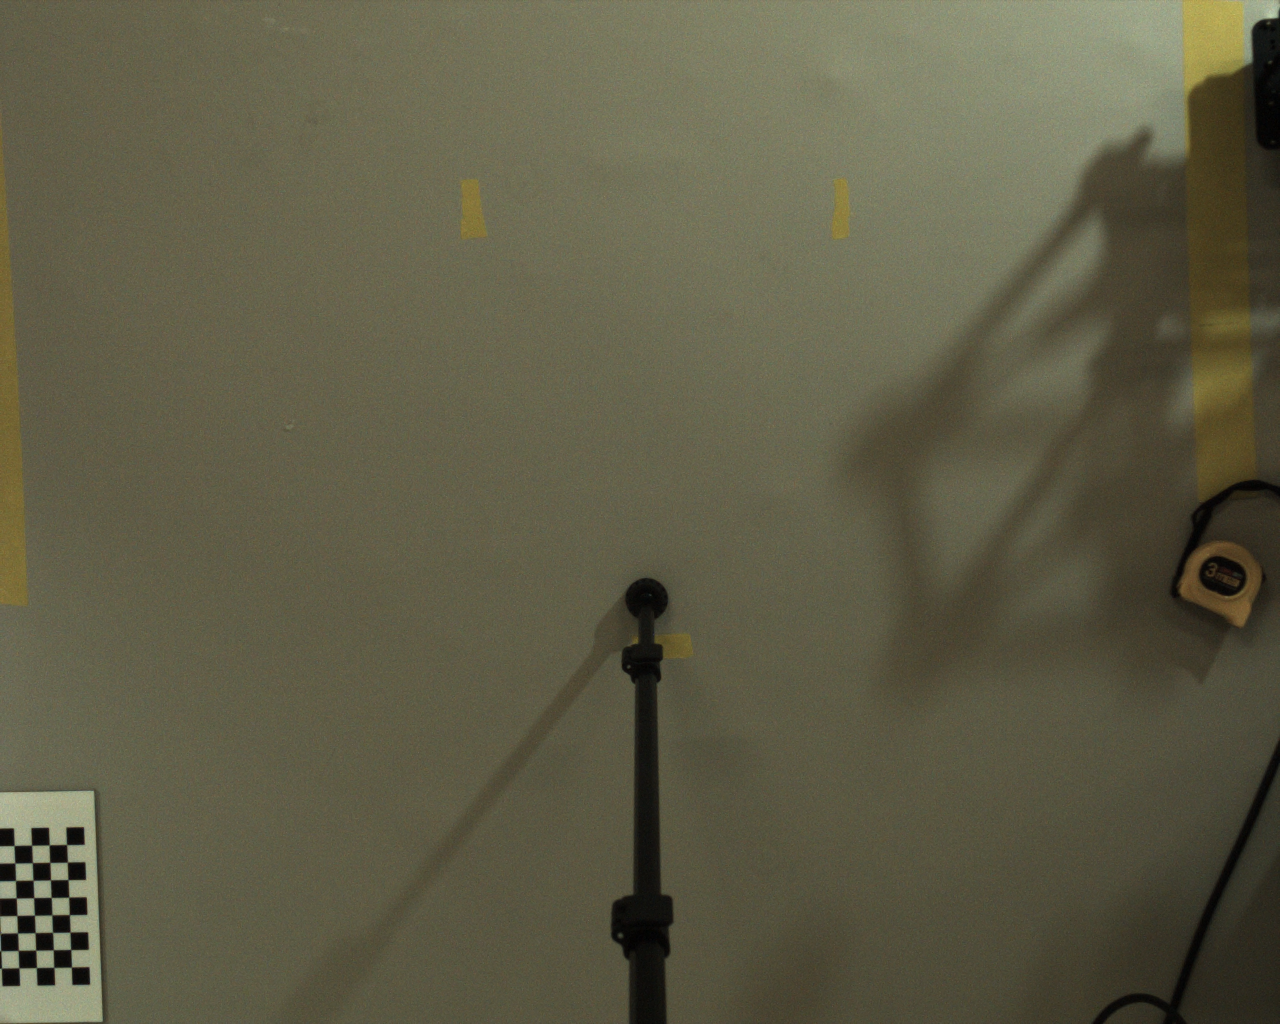
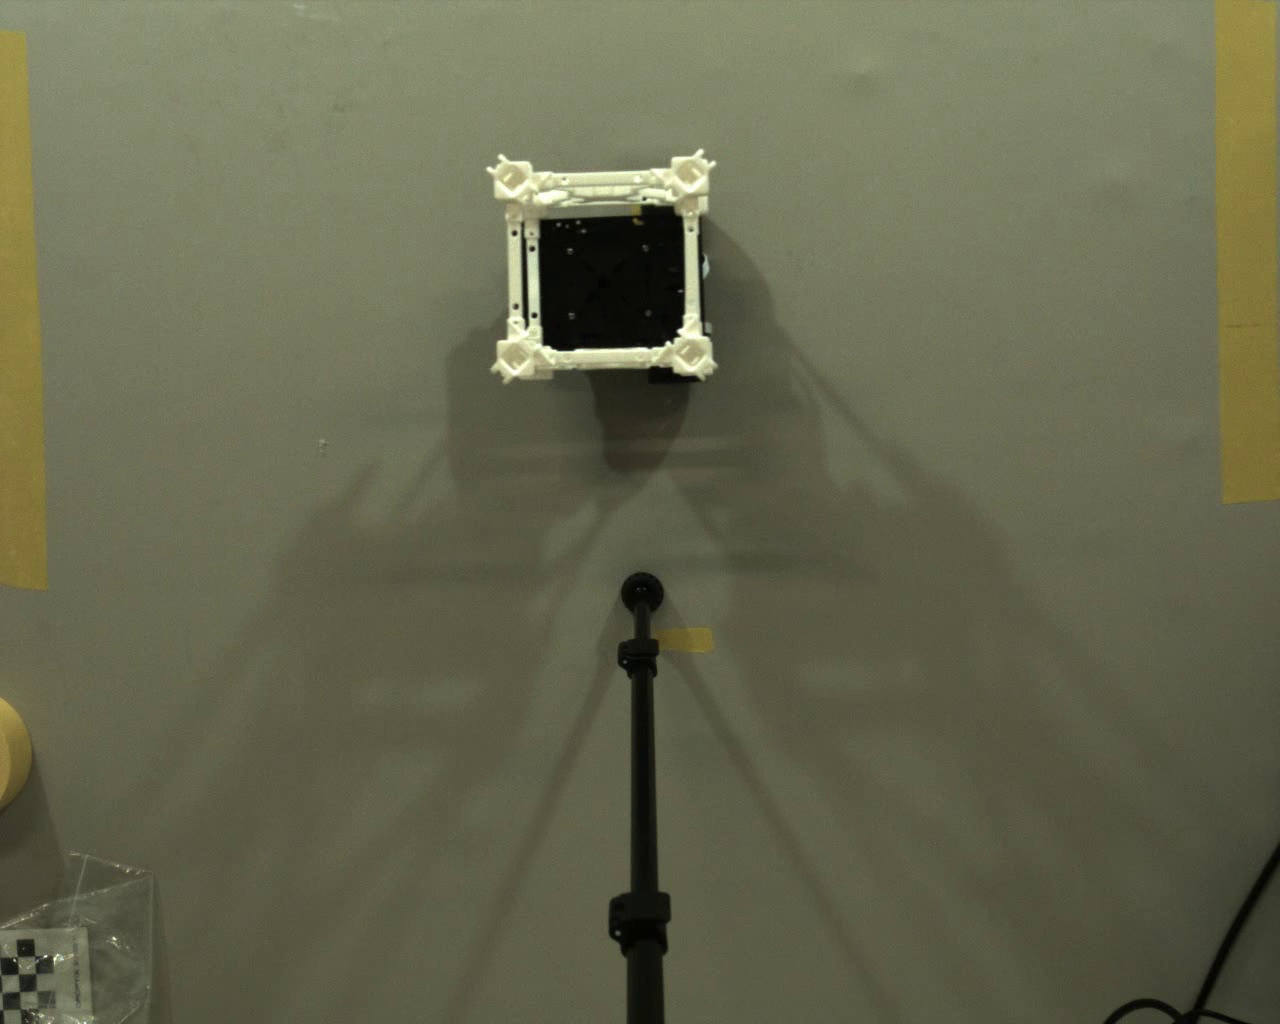
结课汇报 PPT：13 页（平台/标定/算法/改进/方案/视频占位/图表/目标/总结），沿用周汇报模板

diff --git a/第二学期/doc/build_final_deck.py b/第二学期/doc/build_final_deck.py
@@ -1,0 +1,368 @@
+#!/usr/bin/env python3
+# -*- coding: utf-8 -*-
+"""生成《第二学期结课汇报》PPT
+
+沿用上一次周汇报的模板（院徽/院训/底栏），以结果展示为主：
+    一、实验平台（4 张平台图）
+    二、相机标定（标定成果图 + 关键数字）
+    三、算法移植（主框架）
+    四、算法改进（核心改进点 + 标注帧）
+    五、实验方案（一页一个表格）
+    六、七、标注视频占位（2 页）
+    八、结果图表（汇总图 + 6 张四宫格，2 张/页）
+    九、目标达成
+    十、总结
+"""
+
+from __future__ import annotations
+
+import copy
+import os
+from pathlib import Path
+
+from pptx.enum.shapes import MSO_SHAPE
+from pptx.enum.text import MSO_ANCHOR, PP_ALIGN
+from pptx.util import Cm, Pt
+
+import build_deck as bd
+from build_deck import (BLUE, DARK, GREEN, ORANGE, RED, GRAY, BODY, CARD_FILL,
+                        CARD_LINE, accent_card, arrow, banner, metric_strip,
+                        picture, set_font, stat_card, table, textbox, _rect)
+
+WEEKLY = bd.BASE / "视觉算法组_周汇报_10.30.pptx"
+OUT = bd.BASE / "视觉算法组_结课汇报.pptx"
+
+ARCH = bd.ROOT / "第二学期" / "验收成果_2026-10-30"
+PLAT = ARCH / "00_实验平台"
+CAL = ARCH / "01_标定"
+FIG = bd.ROOT / "第二学期" / "out" / "acceptance" / "figures"
+
+
+class FinalDeck(bd.Builder):
+    def __init__(self):
+        bd.TEMPLATE = WEEKLY
+        super().__init__()
+
+    # ---------- 通用 ----------
+    def build(self):
+        sldIdLst = self.prs.slides._sldIdLst
+        for sldId in list(sldIdLst)[:self.n_orig]:
+            self.prs.part.drop_rel(sldId.rId)
+            sldIdLst.remove(sldId)
+        self.platform()
+        self.calibration()
+        self.algorithm()
+        self.improve()
+        self.scheme()
+        self.video_one()
+        self.video_two()
+        self.summary_fig()
+        self.grids_l1()
+        self.grids_l2()
+        self.grids_l3()
+        self.goal()
+        self.conclusion()
+        self.prs.save(str(OUT))
+        print(f"saved {OUT}")
+
+    def video_placeholder(self, s, img, x, y, w, h, caption, detail):
+        picture(s, img, x, y, w, h)
+        cx, cy = x + w / 2, y + h / 2
+        circ = s.shapes.add_shape(MSO_SHAPE.OVAL, Cm(cx - 1.5), Cm(cy - 1.5),
+                                  Cm(3.0), Cm(3.0))
+        circ.fill.solid()
+        circ.fill.fore_color.rgb = bd.RGBColor.from_string("FFFFFF")
+        circ.line.color.rgb = bd.RGBColor.from_string("D6E4F0")
+        circ.line.width = Pt(1.5)
+        tri = s.shapes.add_shape(MSO_SHAPE.ISOSCELES_TRIANGLE,
+                                 Cm(cx - 0.55), Cm(cy - 0.75), Cm(1.4), Cm(1.5))
+        tri.rotation = 90
+        tri.fill.solid()
+        tri.fill.fore_color.rgb = bd.RGBColor.from_string(BLUE)
+        tri.line.fill.background()
+        textbox(s, x, y + h + 0.1, w, 0.7, caption, size=11, bold=True,
+                color=DARK, align=PP_ALIGN.CENTER)
+        textbox(s, x, y + h + 0.75, w, 0.6, detail, size=9.5, color=GRAY,
+                align=PP_ALIGN.CENTER)
+
+    # ---------- 一、实验平台 ----------
+    def platform(self):
+        s = self.new_slide("一、实验平台")
+        textbox(s, 0.9, 2.0, 9.4, 2.7,
+                "面向“在轨服务机器人地面试验”任务：\n"
+                "俯视相机 + 双 100 W 工作灯 +\n"
+                "桁架小车 + 白桌，完成平台搭建。", size=13, color=BODY)
+        data = [
+            ["项目", "参数"],
+            ["相机", "MV-CU013-A0UC"],
+            ["分辨率", "1280 × 1024"],
+            ["镜头", "MVL-HF0828M-6MPE"],
+            ["机位", "镜头 → 桌面 144 cm"],
+            ["曝光/光圈/增益", "10 ms / F2.8 / 6 dB"],
+            ["桌面", "白桌（未铺黑布）"],
+        ]
+        table(s, 0.9, 5.0, 9.4, 8.2, data, col_w=[3.7, 5.7], fsize=11.5,
+              first_col_bold=True)
+        textbox(s, 0.9, 13.6, 9.4, 1.2,
+                "注：图片取自验收成果 00_实验平台，共 4 张。", size=9.5, color=GRAY)
+
+        picture(s, PLAT / "平台全景_相机与桌面.jpg", 10.6, 2.0, 10.8, 6.6)
+        textbox(s, 10.6, 8.65, 10.8, 0.6, "平台全景：相机、桌面与左灯", size=9.5,
+                color=GRAY, align=PP_ALIGN.CENTER)
+        picture(s, PLAT / "平台全景_灯位与桁架车.jpg", 21.8, 2.0, 10.9, 6.6)
+        textbox(s, 21.8, 8.65, 10.9, 0.6, "平台全景：灯位与桁架小车", size=9.5,
+                color=GRAY, align=PP_ALIGN.CENTER)
+        picture(s, PLAT / "平台全景_三灯布置.jpg", 10.6, 9.8, 10.8, 6.6)
+        textbox(s, 10.6, 16.45, 10.8, 0.6, "三灯布置与采集端", size=9.5,
+                color=GRAY, align=PP_ALIGN.CENTER)
+        picture(s, PLAT / "相机视角_俯拍.png", 21.8, 9.8, 10.9, 6.6)
+        textbox(s, 21.8, 16.45, 10.9, 0.6, "相机视角：俯拍画面", size=9.5,
+                color=GRAY, align=PP_ALIGN.CENTER)
+        self.notes(s, "实验平台：按任务情景搭好相机、双灯、桁架小车与白桌；四张图分别展示全景、灯位、三灯布置和相机实际画面。")
+
+    # ---------- 二、相机标定 ----------
+    def calibration(self):
+        s = self.new_slide("二、相机标定")
+        picture(s, CAL / "5cm网格_全视野.png", 0.9, 2.0, 17.6, 14.2)
+        textbox(s, 0.9, 16.35, 17.6, 0.7,
+                "标定成果：全视野 5 cm 网格 + 88 个内角点 + 标定板轮廓",
+                size=10.5, color=GRAY, align=PP_ALIGN.CENTER)
+        stat_card(s, 19.6, 2.1, 6.4, 3.1, "0.044", "px", "重投影 RMS")
+        stat_card(s, 26.7, 2.1, 6.4, 3.1, "14.73", "px/cm", "像素尺度（X）")
+        stat_card(s, 19.6, 5.5, 6.4, 3.1, "88/88", "", "内角点全部检出")
+        stat_card(s, 26.7, 5.5, 6.4, 3.1, "114.8", "cm", "标定面 WD")
+        textbox(s, 19.6, 9.1, 13.5, 3.6,
+                "• 标定板 Q12-200-15 放在桁架顶面\n"
+                "• 视野 86.9 × 69.3 cm，测量区 76.9 × 59.3 cm\n"
+                "• 单应 H：像素 → 厘米，用于测速与轨迹",
+                size=11.5, color=BODY)
+        banner(s, 19.6, 13.1, 13.5, 2.6,
+               "标定质量良好：88 个角点全部检出，\nRMS 0.044 px（≈0.03 mm）",
+               "E8F5E9", GREEN, GREEN, size=12.5)
+        self.notes(s, "相机标定：标定板在桁架顶面，88/88 角点、RMS 0.044 px、14.73 px/cm；单应 H 打通像素到厘米。")
+
+    # ---------- 三、算法移植 ----------
+    def algorithm(self):
+        s = self.new_slide("三、算法移植")
+        steps = [
+            ("相机取流", "时间戳 + FrameID"),
+            ("灰度 + 背景建模", "MOG2"),
+            ("形态学开 / 闭", "5×5 椭圆核"),
+            ("最大轮廓", "面积 ≥ 阈值"),
+            ("图像矩质心", "m10 / m00"),
+            ("单应 H", "cm → px"),
+            ("速度", "差分 + αβ"),
+        ]
+        x = 0.9
+        for i, (st, sub) in enumerate(steps):
+            shp = s.shapes.add_shape(MSO_SHAPE.ROUNDED_RECTANGLE, Cm(x), Cm(2.2),
+                                     Cm(4.1), Cm(2.1))
+            shp.adjustments[0] = 0.12
+            shp.fill.solid()
+            shp.fill.fore_color.rgb = bd.RGBColor.from_string(bd.STAT_FILL)
+            shp.line.color.rgb = bd.RGBColor.from_string(CARD_LINE)
+            tf = shp.text_frame
+            tf.word_wrap = True
+            tf.vertical_anchor = MSO_ANCHOR.MIDDLE
+            p = tf.paragraphs[0]
+            p.alignment = PP_ALIGN.CENTER
+            r = p.add_run(); r.text = st
+            set_font(r, 11.5, True, DARK)
+            p2 = tf.add_paragraph()
+            p2.alignment = PP_ALIGN.CENTER
+            r = p2.add_run(); r.text = sub
+            set_font(r, 9.5, False, GRAY)
+            if i < len(steps) - 1:
+                arrow(s, x + 4.15, 3.0, 0.35, 0.5)
+            x += 4.6
+        banner(s, 0.9, 4.75, 31.9, 1.5,
+               "主框架：运动前景 + 亮度门限 → 最大轮廓 → 质心 → 单应 → αβ 平滑测速",
+               "EAF3FB", BLUE, DARK, size=12.5)
+        picture(s, FIG / "pick_L1_21_1_440.jpg", 0.9, 6.5, 15.4, 10.0)
+        textbox(s, 0.9, 16.6, 15.4, 0.7,
+                "运行画面：绿色轮廓、红色质心、橙色速度矢量与 HUD",
+                size=10, color=GRAY, align=PP_ALIGN.CENTER)
+        accent_card(s, 16.9, 6.5, 15.9, 3.0, "① 前景提取",
+                    "MOG2 背景差分得到运动像素，再用亮度门限筛出目标", bsize=11.5)
+        accent_card(s, 16.9, 9.8, 15.9, 3.0, "② 目标定位",
+                    "取最大轮廓，用图像矩 m10/m00 求质心（亚像素）", bsize=11.5)
+        accent_card(s, 16.9, 13.1, 15.9, 3.0, "③ 速度计算",
+                    "单应 H 把质心映射到厘米坐标，αβ 滤波后差分求速度", bsize=11.5)
+        textbox(s, 16.9, 16.35, 15.9, 0.8,
+                "移植后暴露的问题：单侧强光的长阴影被并成前景。",
+                size=10.5, color=RED)
+        self.notes(s, "算法移植：7 步主框架；直接搬过来后遇到强光长阴影问题，引出下一页的改进。")
+
+    # ---------- 四、算法改进 ----------
+    def improve(self):
+        s = self.new_slide("四、算法改进")
+        items = [
+            ("① 曝光锁定", "快门定在 10 ms，正好一个 100 Hz 周期，画面不闪"),
+            ("② 亮度门限", "影子比目标暗，只保留“又亮又在动”的像素"),
+            ("③ 自适应阈值", "门槛跟着画面亮度走，换光照不用改参数"),
+            ("④ αβ + 稳态窗", "速度平滑、自动挑出稳定段，失败率可统计"),
+        ]
+        y = 2.3
+        for t, b in items:
+            accent_card(s, 0.9, y, 13.2, 2.8, t, b, bsize=11.5)
+            y += 3.15
+        banner(s, 0.9, 15.2, 13.2, 2.2,
+               "失败率 19.6% → 0%，速度误差 −10% → ±1.3%",
+               "E8F5E9", GREEN, GREEN, size=12.5)
+        picture(s, FIG / "pick_L3_31_1_440.jpg", 14.8, 2.3, 18.0, 12.6)
+        textbox(s, 14.8, 15.05, 18.0, 0.7,
+                "改进后的标注画面：轮廓、质心、速度矢量、HUD 与稳态标记",
+                size=10, color=GRAY, align=PP_ALIGN.CENTER)
+        textbox(s, 14.8, 15.75, 18.0, 1.6,
+                "核心改进：曝光挡频闪 + 亮度筛影子 + 自适应阈值 + 平滑与稳态窗，\n"
+                "使强光下的检出和测速稳定下来。", size=11, color=BODY)
+        self.notes(s, "算法改进：四点——曝光锁定、亮度门限、自适应阈值、αβ+稳态窗；失败率从 19.6% 降到 0%。")
+
+    # ---------- 五、实验方案（表格） ----------
+    def scheme(self):
+        s = self.new_slide("五、实验方案")
+        data = [
+            ["等级", "照度区间", "目标速度", "重复次数", "录像规格", "指标 1", "指标 2"],
+            ["L1", "333–368 lx", "21 cm/s", "1 次", "15 s @ 60 fps", "≤20%", "≤15%"],
+            ["L1", "333–368 lx", "31 cm/s", "1 次", "15 s @ 60 fps", "≤20%", "≤15%"],
+            ["L2", "428–473 lx", "21 cm/s", "1 次", "15 s @ 60 fps", "≤20%", "≤15%"],
+            ["L2", "428–473 lx", "31 cm/s", "1 次", "15 s @ 60 fps", "≤20%", "≤15%"],
+            ["L3", "523–578 lx", "21 cm/s", "1 次", "15 s @ 60 fps", "≤20%", "≤15%"],
+            ["L3", "523–578 lx", "31 cm/s", "1 次", "15 s @ 60 fps", "≤20%", "≤15%"],
+        ]
+        table(s, 0.9, 2.3, 31.9, 9.6, data,
+              col_w=[2.8, 6.0, 4.2, 3.6, 6.6, 4.3, 4.4], fsize=12,
+              first_col_bold=True)
+        textbox(s, 0.9, 12.3, 31.9, 3.0,
+                "判据：指标 1 = 稳态阶段速度相对误差 ≤ 20%；指标 2 = 检测失败率 ≤ 15%\n"
+                "（失败率 = 统计窗内未检出帧 ÷ 统计窗总帧数）",
+                size=12, color=BODY)
+        textbox(s, 0.9, 15.0, 31.9, 2.4,
+                "稳态阶段（四条同时满足）：目标完整在 ROI 内 · 与目标速度差 ≤15% · "
+                "连续（漏检 ≤3 帧）· 持续 ≥1.0 s",
+                size=11.5, color=GRAY)
+        self.notes(s, "实验方案：3 个光照等级 × 21/31 cm/s，每个组合 1 次，60 fps 录 15 s；两项指标与稳态判据。")
+
+    # ---------- 六、七、标注视频占位 ----------
+    def video_one(self):
+        s = self.new_slide("六、标注视频：L1 · 21 cm/s")
+        self.video_placeholder(s, FIG / "pick_L1_21_1_440.jpg", 0.9, 2.2, 17.0, 13.6,
+                               "▶ 标注视频（占位）",
+                               "out/acceptance/videos/L1_21_1_v23.mp4")
+        textbox(s, 18.9, 2.3, 14.0, 0.9, "视频内容", size=15, bold=True, color=DARK)
+        textbox(s, 18.9, 3.3, 14.0, 5.6,
+                "• 绿色轮廓、红色质心、橙色速度矢量\n"
+                "• 左上 HUD：目标、实测、误差、失败率\n"
+                "• 底部时间轴：绿色段为稳态统计窗", size=12.5, color=BODY)
+        stat_card(s, 18.9, 9.6, 6.6, 3.2, "21.02", "cm/s", "稳态速度")
+        stat_card(s, 26.2, 9.6, 6.6, 3.2, "+0.1%", "", "相对误差")
+        banner(s, 18.9, 13.4, 14.0, 2.2,
+               "失败率 0.3%｜稳态窗 2.73 s", "E8F5E9", GREEN, GREEN, size=12.5)
+        self.notes(s, "标注视频一：L1 21 cm/s。播放时展示 HUD、速度矢量、稳态时间轴；结果 21.02 cm/s、+0.1%、失败率 0.3%。")
+
+    def video_two(self):
+        s = self.new_slide("七、标注视频：L3 · 31 cm/s")
+        self.video_placeholder(s, FIG / "pick_L3_31_1_440.jpg", 0.9, 2.2, 17.0, 13.6,
+                               "▶ 标注视频（占位）",
+                               "out/acceptance/videos/L3_31_1_v23.mp4")
+        textbox(s, 18.9, 2.3, 14.0, 0.9, "视频内容", size=15, bold=True, color=DARK)
+        textbox(s, 18.9, 3.3, 14.0, 5.6,
+                "• 绿色轮廓、红色质心、橙色速度矢量\n"
+                "• 左上 HUD：目标、实测、误差、失败率\n"
+                "• 底部时间轴：绿色段为稳态统计窗", size=12.5, color=BODY)
+        stat_card(s, 18.9, 9.6, 6.6, 3.2, "31.30", "cm/s", "稳态速度")
+        stat_card(s, 26.2, 9.6, 6.6, 3.2, "+1.0%", "", "相对误差")
+        banner(s, 18.9, 13.4, 14.0, 2.2,
+               "失败率 0.5%｜稳态窗 1.78 s", "E8F5E9", GREEN, GREEN, size=12.5)
+        self.notes(s, "标注视频二：L3 31 cm/s。结果 31.30 cm/s、+1.0%、失败率 0.5%。")
+
+    # ---------- 八、结果图表 ----------
+    def summary_fig(self):
+        s = self.new_slide("八、结果总览")
+        picture(s, FIG / "summary_light_levels.png", 0.9, 2.0, 26.4, 14.6)
+        textbox(s, 0.9, 16.75, 26.4, 0.7,
+                "三档光照 × 21/31 cm/s：速度相对误差与检测失败率（红线为判据）",
+                size=10.5, color=GRAY, align=PP_ALIGN.CENTER)
+        stat_card(s, 27.8, 2.4, 5.8, 3.2, "1.3%", "", "最大速度误差")
+        stat_card(s, 27.8, 5.9, 5.8, 3.2, "1.5%", "", "最大失败率")
+        stat_card(s, 27.8, 9.4, 5.8, 3.2, "6/6", "", "全部达标")
+        textbox(s, 27.8, 13.0, 5.8, 3.2,
+                "指标 1：≤20%\n指标 2：≤15%", size=11.5, color=GRAY)
+        self.notes(s, "结果总览：汇总图 + 三个关键数字；6/6 达标，最大误差 1.3%、最大失败率 1.5%。")
+
+    def grid_pair(self, title, left, right, notes):
+        s = self.new_slide(title)
+        for img, x, cap in (left, right):
+            picture(s, img, x, 2.5, 15.9, 11.0)
+            textbox(s, x, 13.7, 15.9, 0.7, cap, size=10.5, color=GRAY,
+                    align=PP_ALIGN.CENTER)
+        textbox(s, 0.9, 15.2, 31.9, 2.4,
+                "左/右图：轨迹、X-Y 随时间、αβ 速度（含 ±15% 带）、轮廓面积；"
+                "绿色阴影为稳态窗。", size=10.5, color=GRAY)
+        self.notes(s, notes)
+
+    def grids_l1(self):
+        self.grid_pair(
+            "八、结果图表：L1（333–368 lx）",
+            (FIG / "L1_21_1_v23.png", 0.9, "L1 · 21 cm/s：21.02（+0.1%），失败率 0.3%"),
+            (FIG / "L1_31_1_v23.png", 17.1, "L1 · 31 cm/s：31.13（+0.4%），失败率 1.5%"),
+            "L1 两个速度的四宫格。")
+
+    def grids_l2(self):
+        self.grid_pair(
+            "八、结果图表：L2（428–473 lx）",
+            (FIG / "L2_21_1_v23.png", 0.9, "L2 · 21 cm/s：20.82（−0.9%），失败率 0.0%"),
+            (FIG / "L2_31_1_v23.png", 17.1, "L2 · 31 cm/s：30.59（−1.3%），失败率 0.0%"),
+            "L2 两个速度的四宫格。")
+
+    def grids_l3(self):
+        self.grid_pair(
+            "八、结果图表：L3（523–578 lx）",
+            (FIG / "L3_21_1_v23.png", 0.9, "L3 · 21 cm/s：20.87（−0.6%），失败率 0.0%"),
+            (FIG / "L3_31_1_v23.png", 17.1, "L3 · 31 cm/s：31.30（+1.0%），失败率 0.5%"),
+            "L3 两个速度的四宫格。")
+
+    # ---------- 九、目标达成 ----------
+    def goal(self):
+        s = self.new_slide("九、目标达成")
+        banner(s, 0.9, 2.4, 31.9, 3.4,
+               "6/6 组全部达标：速度误差最大 1.3%，检测失败率最大 1.5%",
+               "E8F5E9", GREEN, GREEN, size=17)
+        metric_strip(s, 0.9, 6.6, 31.9, 3.2, [
+            ("≤20% → 1.3%", "指标 1：速度相对误差", GREEN),
+            ("≤15% → 1.5%", "指标 2：检测失败率", GREEN),
+            ("6 / 6", "组合达标", BLUE),
+        ])
+        accent_card(s, 0.9, 10.6, 15.4, 4.0, "指标 1 达成",
+                    "三档光照、两个速度，稳态速度相对误差均在 1.3% 以内，\n远低于 20% 的验收上限。", bsize=12)
+        accent_card(s, 17.4, 10.6, 15.4, 4.0, "指标 2 达成",
+                    "检测失败率最高 1.5%（L1·31），其余为 0–0.5%，\n远低于 15% 的验收上限。", bsize=12)
+        textbox(s, 0.9, 15.4, 31.9, 2.0,
+                "口径：稳态阶段速度相对误差；失败率 = 统计窗内未检出帧 ÷ 统计窗总帧数。",
+                size=10.5, color=GRAY)
+        self.notes(s, "目标达成：两项指标都达标，6/6 组通过，且余量很大。")
+
+    # ---------- 十、总结 ----------
+    def conclusion(self):
+        s = self.new_slide("十、总结")
+        cards = [
+            ("平台", "相机俯拍 + 双灯 + 桁架车\n完成搭建与标定 0.044 px"),
+            ("算法", "7 步框架 + 4 点改进\n失败率 19.6% → 0%"),
+            ("结果", "3 档光照 × 2 个速度\n6/6 达标，误差 ≤1.3%"),
+            ("交付", "成果包：平台/标定/数据\n图表/视频/文档可复现"),
+        ]
+        x = 0.9
+        for t_, b_ in cards:
+            accent_card(s, x, 2.4, 7.6, 7.4, t_, b_, bsize=10.5)
+            x += 8.2
+        banner(s, 0.9, 10.6, 31.9, 2.6,
+               "第二学期目标全部完成，实验平台、算法与验收数据均可复现。",
+               "EAF3FB", BLUE, DARK, size=14)
+        textbox(s, 0.9, 13.8, 31.9, 2.2,
+                "后续：更大光照范围与更快速度的验证；黑布背景与更稳光源；长时稳定性与重复性测试。",
+                size=11.5, color=GRAY)
+        self.notes(s, "总结：平台、算法、结果、交付四块；目标完成，给出后续方向。")
+
+
+if __name__ == "__main__":
+    FinalDeck().build()
